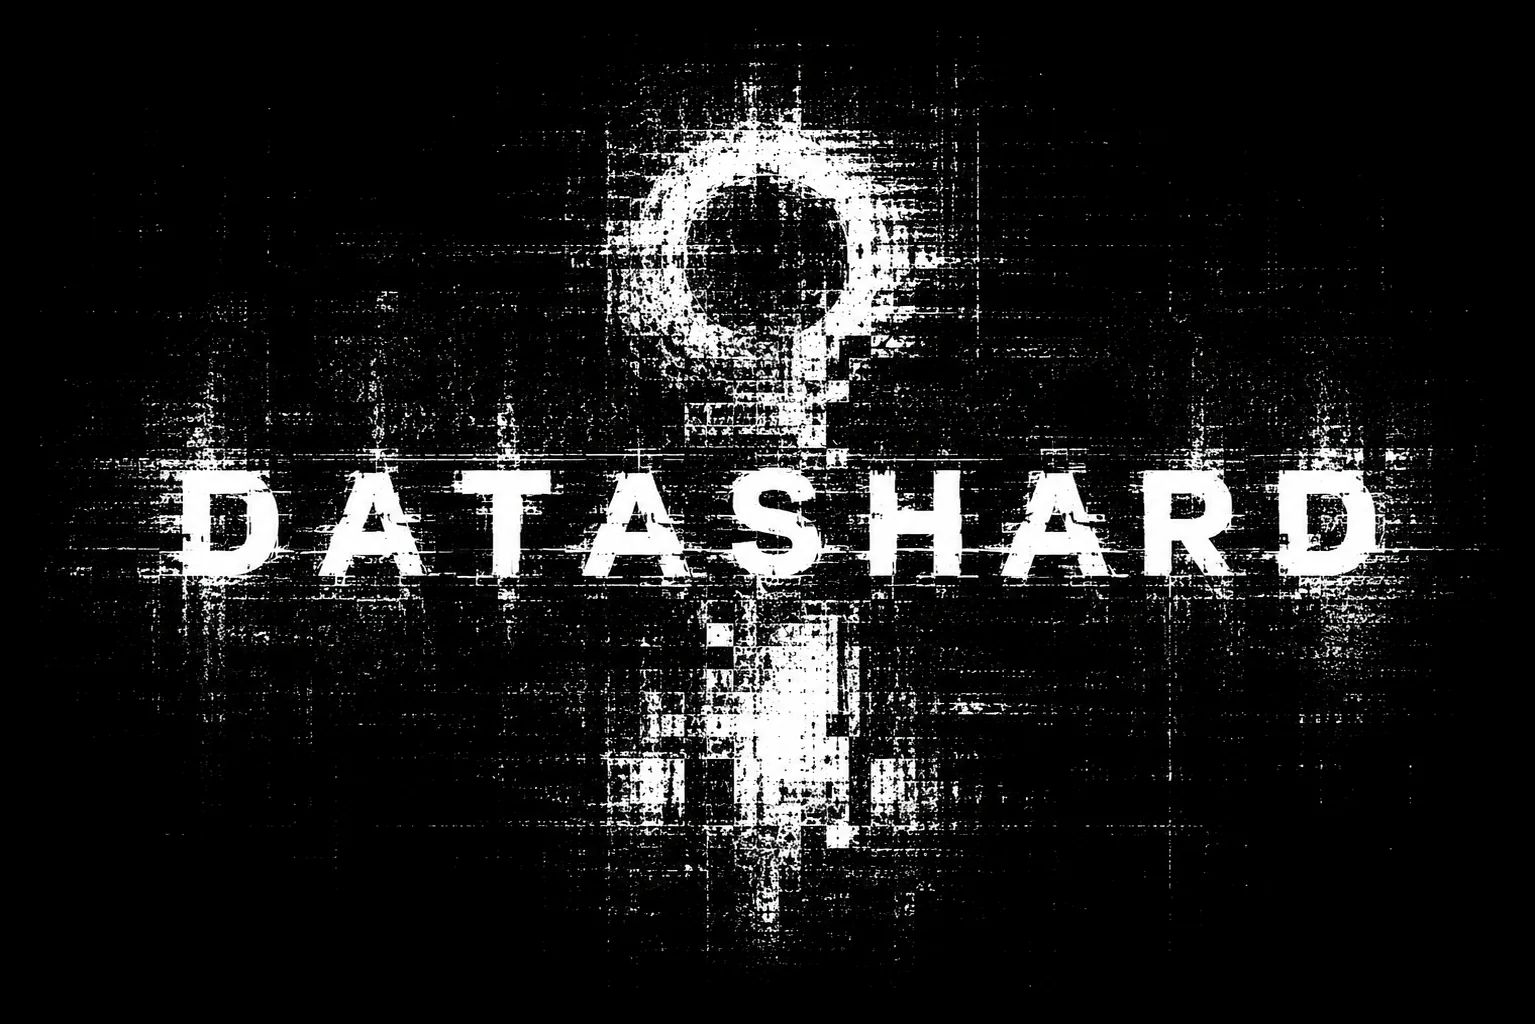
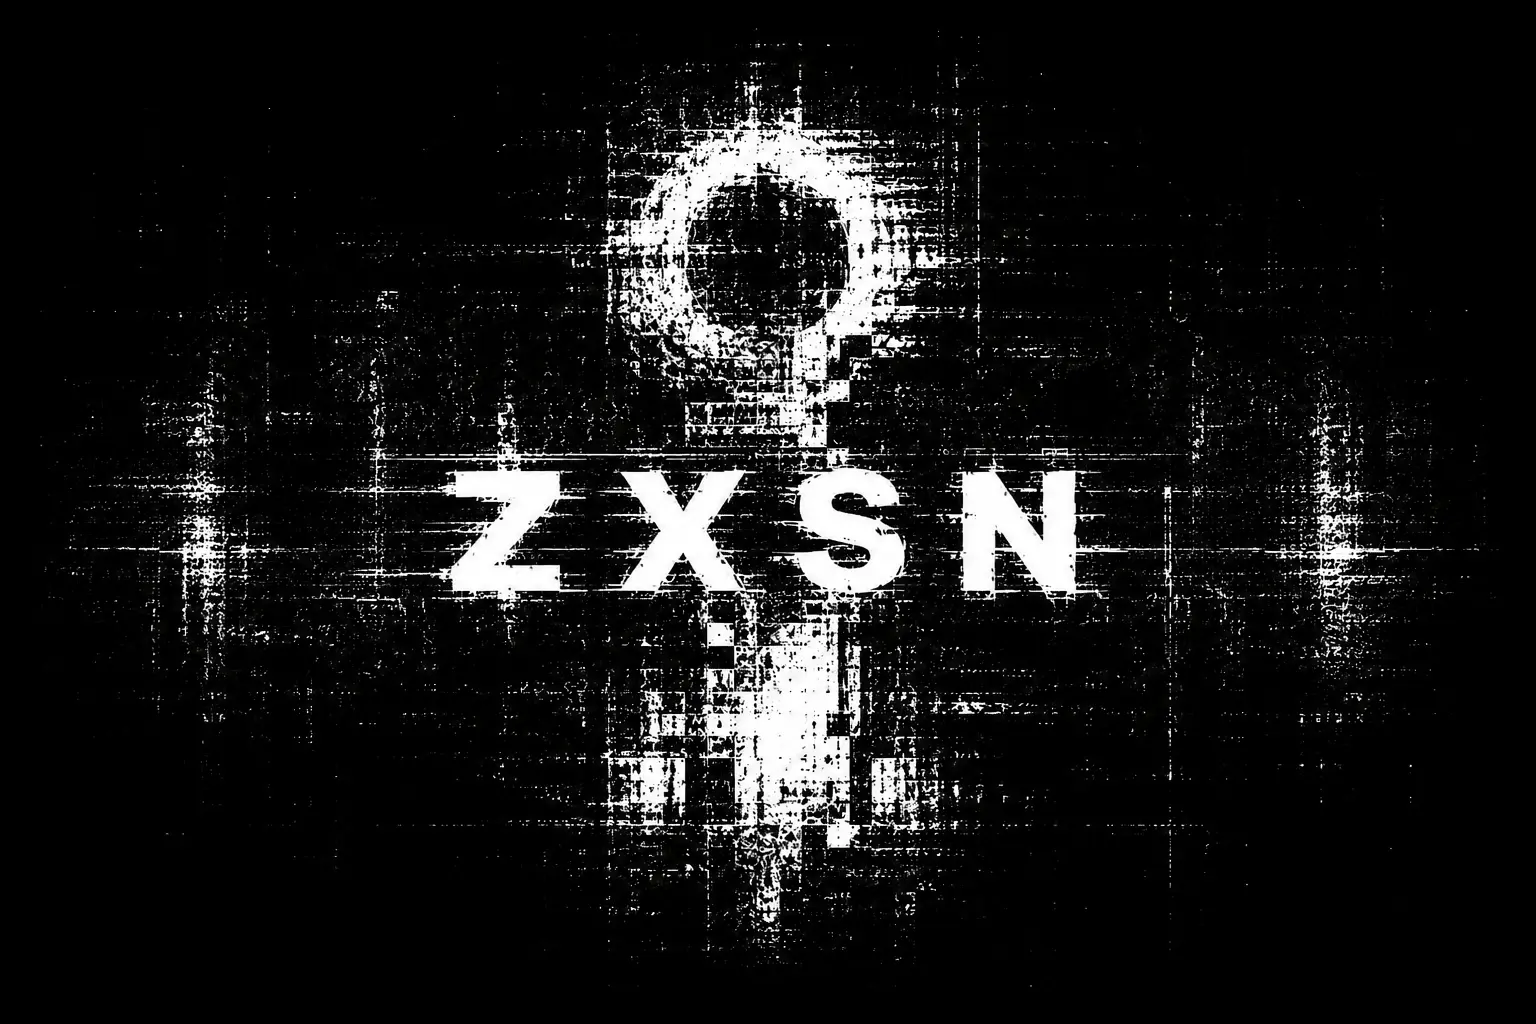
Datashard term is old news with new aesthetic, renaming to ZXSN

Changed region(s): [[0.0612, 0.0625, 0.9186, 0.9375], [0.245, 0.2812, 0.2756, 0.3125]]

diff --git a/src/css/global.css b/src/css/global.css
@@ -119,7 +119,7 @@
   }
 }
 
-@utility prose-datashard {
+@utility prose-zxsn {
   --tw-prose-body: var(--color-body);
   --tw-prose-headings: var(--color-foreground);
   --tw-prose-lead: var(--color-body);

diff --git a/src/lib/consts.ts b/src/lib/consts.ts
@@ -1,2 +1,2 @@
-export const SITE_TITLE = "DATASHARD";
+export const SITE_TITLE = "ZXSN";
 export const SITE_DESCRIPTION = "Fragments and echoes from the digital frontier - an archive by Drayken.";

diff --git a/README.md b/README.md
@@ -1,6 +1,6 @@
-# Datashard
+# ZXSN - zxsn.sh
 
-Archive of echoes running on the "Editorial Entropy" template by @KGDrayken.
+Astro "Editorial Entropy" Blog by @KGDrayken.
 
 ## TASKS
 
